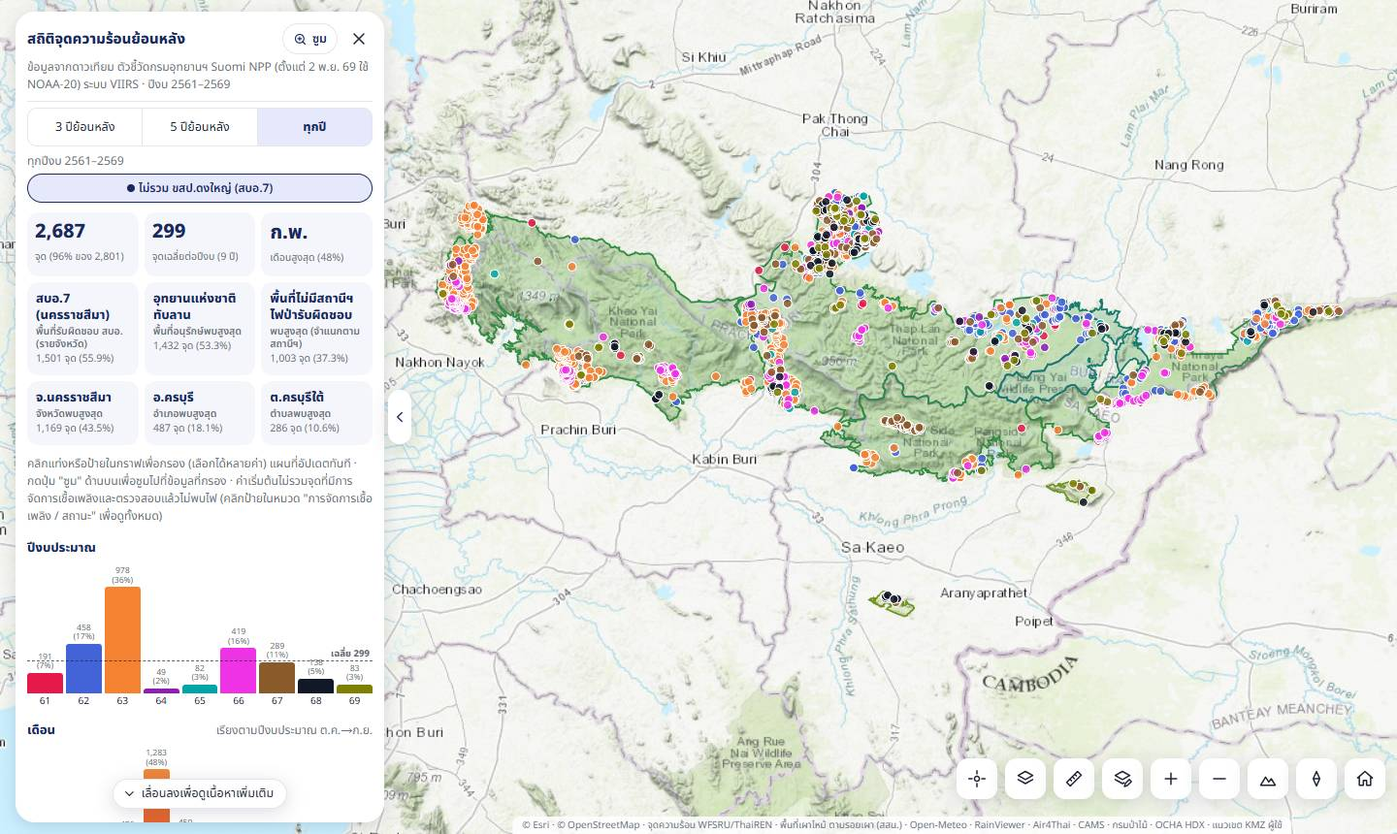
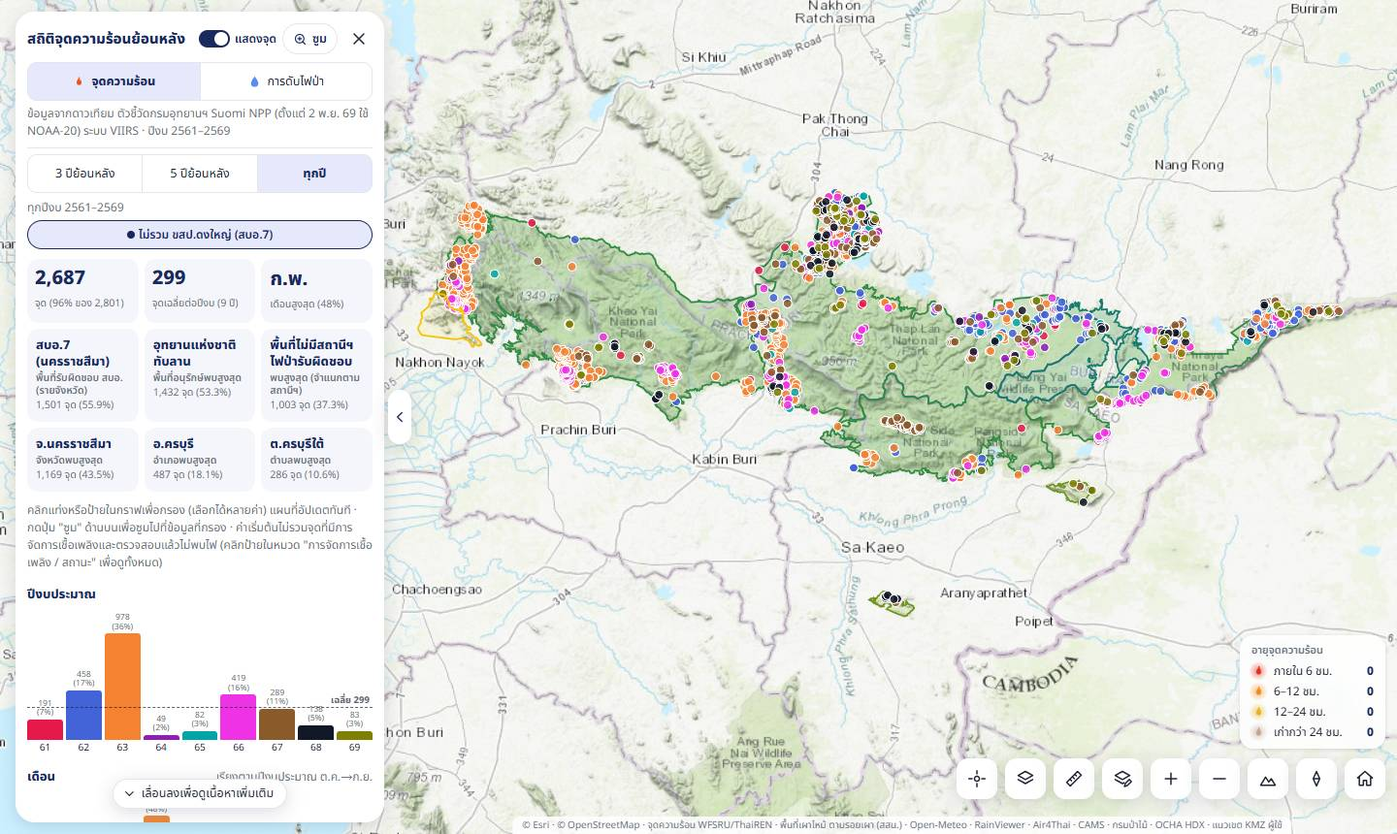
การ์ดสถิติ: สวิตช์ "แสดงจุด" เล็กหน้าปุ่มซูม ใช้ทั้งแท็บจุดความร้อน/การดับไฟป่า/พื้นที่เฝ้าระวังพิเศษ ค่าเริ่มต้นเปิด (แทนแถวสวิตช์เดิมในการ์ด จปร.)

diff --git a/index.html b/index.html
@@ -326,6 +326,7 @@ hr.l{border:0;border-top:1px solid var(--line);margin:10px 0}
 .kc .ic{width:30px;height:30px;border-radius:9px;display:grid;place-items:center;flex:none;background:var(--cb);color:var(--c)}.kc .ic svg{width:17px;height:17px}
 .kc>div{min-width:0}.kc span{display:block;font-size:10.5px;color:var(--mut);line-height:1.25}.kc b{display:block;font-size:21px;line-height:1.15;color:var(--navy);font-weight:800}.kc b.t{font-size:14px;line-height:1.25}.kc small{display:block;font-size:10.5px;color:var(--mut);line-height:1.25}
 .hh{flex-wrap:wrap;gap:6px 6px}.ht{flex:1;font-size:15px;font-weight:800;color:var(--navy)}.hh>.hsub{flex:0 0 100%;margin-top:-2px}
+.hsp{display:inline-flex;align-items:center;gap:5px;font-size:12px;font-weight:600;color:var(--navy);cursor:pointer;white-space:nowrap}.hsp .sw{width:32px;height:18px}.hsp .sw::after{width:14px;height:14px}.hsp .sw[aria-checked=true]::after{transform:translateX(14px)}
 .hp{min-height:32px;padding:0 10px;border:1px solid var(--line);background:var(--bg);border-radius:99px;font-size:12.5px;display:inline-flex;align-items:center;gap:5px;color:var(--navy);font-weight:600}.hp svg{width:15px;height:15px}
 .kp .nm{font-size:13px;line-height:1.3;font-weight:800;margin:0 0 2px}.kp .lb{font-weight:600;color:var(--mut);font-size:10.5px;line-height:1.25}.kp .six{display:flex;flex-direction:column}
 /* หน้ากระดาน "ความสำคัญ" (#kb) — ความรู้รายพื้นที่อนุรักษ์ + แผนที่ประกอบ */
@@ -511,7 +512,7 @@ hr.l{border:0;border-top:1px solid var(--line);margin:10px 0}
   <div class="pbt"><button id="p-tbl"><svg class="i" viewBox="0 0 24 24"><rect x="3" y="4" width="18" height="16" rx="2"/><path d="M3 10h18M9 10v10"/></svg>ตารางรายละเอียด</button><button id="p-csv"><svg class="i" viewBox="0 0 24 24"><path d="M12 4v11m0 0l-4-4m4 4l4-4M5 20h14"/></svg>ดาวน์โหลด CSV</button><button id="p-pdf"><svg class="i" viewBox="0 0 24 24"><path d="M7 8V3h10v5M7 17H4v-7h16v7h-3M7 14h10v7H7z"/></svg>รายงาน PDF</button></div>
  </div>
 <div class="card hc" id="hcard" hidden aria-label="สถิติจุดความร้อนย้อนหลัง">
-  <div class="hh"><b class="ht" id="h-ttl">สถิติจุดความร้อนย้อนหลัง</b><button class="hp" id="h-fit" aria-label="ซูมไปที่ข้อมูลที่กรอง" title="ซูมไปที่ข้อมูลที่กรอง"><svg class="i" viewBox="0 0 24 24"><circle cx="11" cy="11" r="7"/><path d="M20 20l-4-4M11 8v6M8 11h6"/></svg>ซูม</button><button class="hp" id="h-rs" hidden aria-label="รีเซ็ตตัวกรอง">รีเซ็ต</button><button class="cb ib" id="h-x" aria-label="ปิดการ์ดสถิติ"><svg class="i" viewBox="0 0 24 24"><path d="M6 6l12 12M18 6L6 18"/></svg></button><div class="seg htab" id="h-tab" role="group" aria-label="ชุดข้อมูลสถิติย้อนหลัง"><button data-v="hs"><svg class="i" viewBox="0 0 24 24"><path d="M12 2c1 4-4 6-4 11a4 4 0 008 0c0-2-1-3-1-5-1 1-1.5 2-2 2 1-3 0-6-1-8z" style="fill:#e8541c;stroke:none"/></svg>จุดความร้อน</button><button data-v="xt"><svg class="i" viewBox="0 0 24 24"><path d="M12 3s6 7 6 11a6 6 0 01-12 0c0-4 6-11 6-11z" style="fill:#5b8def;stroke:none"/></svg>การดับไฟป่า</button></div><div class="sm hsub"><span class="hs-only">ข้อมูลจากดาวเทียม ตัวชี้วัดกรมอุทยานฯ Suomi NPP (ตั้งแต่ 2 พ.ย. 69 ใช้ NOAA-20) ระบบ VIIRS · <span id="h-rng"></span></span><span class="xt-only">ข้อมูลการดับไฟป่าจากรายงานสถิติดับไฟรวม อส. · <span id="x-rng"></span></span><span class="wa-only">จุดความร้อนทุกดาวเทียม VIIRS · อยู่นอกแนวเขตกลุ่มป่า · <span id="w-rng"></span></span></div></div>
+  <div class="hh"><b class="ht" id="h-ttl">สถิติจุดความร้อนย้อนหลัง</b><label class="hsp" title="แสดง/ซ่อนจุดของการ์ดนี้บนแผนที่"><button class="sw" id="h-sp" role="switch" aria-label="แสดงจุดบนแผนที่"></button>แสดงจุด</label><button class="hp" id="h-fit" aria-label="ซูมไปที่ข้อมูลที่กรอง" title="ซูมไปที่ข้อมูลที่กรอง"><svg class="i" viewBox="0 0 24 24"><circle cx="11" cy="11" r="7"/><path d="M20 20l-4-4M11 8v6M8 11h6"/></svg>ซูม</button><button class="hp" id="h-rs" hidden aria-label="รีเซ็ตตัวกรอง">รีเซ็ต</button><button class="cb ib" id="h-x" aria-label="ปิดการ์ดสถิติ"><svg class="i" viewBox="0 0 24 24"><path d="M6 6l12 12M18 6L6 18"/></svg></button><div class="seg htab" id="h-tab" role="group" aria-label="ชุดข้อมูลสถิติย้อนหลัง"><button data-v="hs"><svg class="i" viewBox="0 0 24 24"><path d="M12 2c1 4-4 6-4 11a4 4 0 008 0c0-2-1-3-1-5-1 1-1.5 2-2 2 1-3 0-6-1-8z" style="fill:#e8541c;stroke:none"/></svg>จุดความร้อน</button><button data-v="xt"><svg class="i" viewBox="0 0 24 24"><path d="M12 3s6 7 6 11a6 6 0 01-12 0c0-4 6-11 6-11z" style="fill:#5b8def;stroke:none"/></svg>การดับไฟป่า</button></div><div class="sm hsub"><span class="hs-only">ข้อมูลจากดาวเทียม ตัวชี้วัดกรมอุทยานฯ Suomi NPP (ตั้งแต่ 2 พ.ย. 69 ใช้ NOAA-20) ระบบ VIIRS · <span id="h-rng"></span></span><span class="xt-only">ข้อมูลการดับไฟป่าจากรายงานสถิติดับไฟรวม อส. · <span id="x-rng"></span></span><span class="wa-only">จุดความร้อนทุกดาวเทียม VIIRS · อยู่นอกแนวเขตกลุ่มป่า · <span id="w-rng"></span></span></div></div>
   <div class="hs-only" id="hsb"><div class="seg" id="h-per" role="group" aria-label="ช่วงปีงบที่แสดง"><button data-v="3">3 ปีย้อนหลัง</button><button data-v="5">5 ปีย้อนหลัง</button><button data-v="0">ทุกปี</button></div><div class="sm" id="h-pern"></div>
   <div class="sats xdy" data-xdy></div>
   <div class="kp" id="h-kp"></div>
@@ -564,7 +565,6 @@ hr.l{border:0;border-top:1px solid var(--line);margin:10px 0}
   </div>
   <div class="wa-only" id="wab">
   <select id="w-sel" hidden aria-label="เลือกพื้นที่เฝ้าระวัง"></select>
-  <div class="dmr"><button class="sw" id="w-sp" role="switch" aria-label="แสดงสถิติจุดความร้อนย้อนหลังบนแผนที่"></button><span>แสดง<b>สถิติจุดความร้อน</b>ย้อนหลังบนแผนที่ (ตามตัวกรองด้านล่าง)</span></div>
   <div class="hq" style="margin-top:6px"><b>ติดตามรายวัน</b><span class="sm" id="w-upd"></span></div>
   <div class="kp w2" id="w-lv"></div>
   <div id="w-d30"></div>
@@ -934,7 +934,7 @@ const areaHtml=g=>{let s='';if(g.cons)s+=`<b>${esc(g.cons.properties.name)}</b><
  return s||'<span class="sm">อยู่นอกพื้นที่อนุรักษ์และพื้นที่รับผิดชอบไฟป่าตามไฟล์แนวเขต</span><br>'};
 
 /* ---------- สถานะ + จำค่าที่ผู้ใช้เลือก ---------- */
-let S={base:'natural',img:'google',d3:false,hot:true,prov:false,cons:true,resp:false,stn:false,wpt:false,rgr:false,fbs:false,sats:{SNPP:true,NOAA20:true,NOAA21:true},xdy:true,wch:true,wst:false,wsp:false,demo:false,water:true,road:true,wind:false,pm:false,dry:false,wx:false,rad:false,wyl:false,wyo:'wind',wyop:60,hist:false,xt:false,burn:false,fuel:false,ftype:false,amp:false,tam:false,hcl:false,hgp:false,har:false,hcp:'7',rep:false,rpm:2,hcd:1,hcg:2,hcr:200};
+let S={base:'natural',img:'google',d3:false,hot:true,prov:false,cons:true,resp:false,stn:false,wpt:false,rgr:false,fbs:false,sats:{SNPP:true,NOAA20:true,NOAA21:true},xdy:true,wch:true,wst:false,wsp:true,demo:false,water:true,road:true,wind:false,pm:false,dry:false,wx:false,rad:false,wyl:false,wyo:'wind',wyop:60,hist:false,xt:false,burn:false,fuel:false,ftype:false,amp:false,tam:false,hcl:false,hgp:false,har:false,hcp:'7',rep:false,rpm:2,hcd:1,hcg:2,hcr:200};
 try{Object.assign(S,JSON.parse(localStorage.getItem('fm-v1')||'{}'))}catch(e){}S.demo=false;S.wst=false;if(S.base==='road')S.base='detail';
 const toast=(m,fn,ms)=>{const t=$('#toast');t.textContent=m;t.classList.add('show');t.classList.toggle('act',!!fn);t.onclick=fn?()=>{t.classList.remove('show','act');fn()}:null;
  clearTimeout(toast.t);toast.t=setTimeout(()=>t.classList.remove('show','act'),ms||2200)}; // fn = แตะป้ายแล้วทำ (ป้ายค้างนานขึ้น)
@@ -1080,7 +1080,7 @@ function apply(){
  L3();L4();try{LX()}catch(e){}try{LW()}catch(e){}LB();LR();LF();LFT();LA();LP();try{LC()}catch(e){}sync();
 }
 function sync(){
- $$('.sw[data-k]').forEach(b=>b.setAttribute('aria-checked',!!S[b.dataset.k]));
+ $$('.sw[data-k]').forEach(b=>b.setAttribute('aria-checked',!!S[b.dataset.k]));try{if(HOPEN){if(HTAB==='hs')HSP.hs=!!S.hist;else if(HTAB==='xt')HSP.xt=!!S.xt}hspSync()}catch(e){}
  $$('#seg button').forEach(b=>b.classList.toggle('on',b.dataset.b===S.base));
  const im=$('#imgsrc'),k=imgOf();im.hidden=S.base!=='sat';$$('#imgsrc button').forEach(b=>{b.setAttribute('aria-pressed',b.dataset.i===k);b.title=IMG[b.dataset.i].src()});
  $('#seg [data-b="sat"]').dataset.src=IMG[k].src();$('#attr-b').textContent=S.base==='sat'?IMG[k].cr:S.base==='natural'?'© Esri':'© OpenFreeMap';itUI();imgDate();
@@ -2559,13 +2559,14 @@ function pbOpen(){$('#pbf').hidden=false;pbPos();hRender()}
 function pbClose(){pbExit();$('#pbf').hidden=true}
 addEventListener('resize',pbPos);
 /* --- เปิด/ปิดการ์ด --- */
-let HTAB='hs'; // แท็บการ์ดสถิติย้อนหลัง: hs = จุดความร้อน · xt = การดับไฟป่า (ผู้ใช้ขอ 5 พ.ย. 69)
+let HTAB='hs';const HSP={hs:true,xt:true}; // สวิตช์ "แสดงจุด" บนหัวการ์ด (ค่าเริ่มต้นเปิด) — wa ใช้ S.wsp
+const hspOn=()=>HTAB==='wa'?!!S.wsp:HTAB==='xt'?!!S.xt:!!S.hist,hspSync=()=>{const b=document.getElementById('h-sp');if(b)b.setAttribute('aria-checked',HOPEN&&hspOn())}; // แท็บการ์ดสถิติย้อนหลัง: hs = จุดความร้อน · xt = การดับไฟป่า (ผู้ใช้ขอ 5 พ.ย. 69)
 function hOpen(play,tab){if(play)tab='hs';HOPEN=true;$('#left').classList.add('hm');$('#pcard').hidden=true;$('#hcard').hidden=false;hTab(tab||HTAB);
- if(play)pbOpen()}
+ if(play){if(!S.hist){S.hist=HSP.hs=true;apply();hspSync()}pbOpen()}} // เล่นย้อนต้องเห็นจุด
 function hTab(t){HTAB=t;const x=t==='xt',w=t==='wa';$('#hcard').classList.toggle('xtm',x);$('#hcard').classList.toggle('wam',w);tx('h-ttl',x?'สถิติการดับไฟป่าย้อนหลัง':w?'พื้นที่เฝ้าระวังพิเศษ':'สถิติจุดความร้อนย้อนหลัง');$$('#h-tab button').forEach(b=>b.classList.toggle('on',b.dataset.v===t));$('#hcard').scrollTop=0;
- if(w){pbClose();S.hist=false;S.xt=false;S.wst=true;apply();wtRender();if(!hTab.wd){hTab.wd=1;wtFit()}}
- else if(x){pbClose();S.hist=false;S.wst=false;S.xt=true;apply();xtRender();if(!hTab.xd){hTab.xd=1;xtFit()}}
- else{S.xt=false;S.wst=false;S.hist=true;apply();if(!hOpen.done)hDef();hRender();if(!hOpen.done){hOpen.done=1;hFit()}}
+ if(w){pbClose();S.hist=false;S.xt=false;S.wst=true;apply();hspSync();wtRender();if(!hTab.wd){hTab.wd=1;wtFit()}}
+ else if(x){pbClose();S.hist=false;S.wst=false;S.xt=HSP.xt;apply();hspSync();xtRender();if(!hTab.xd){hTab.xd=1;xtFit()}}
+ else{S.xt=false;S.wst=false;S.hist=HSP.hs;apply();hspSync();if(!hOpen.done)hDef();hRender();if(!hOpen.done){hOpen.done=1;hFit()}}
  try{moreFit()}catch(e){}}
 function hClose(){HOPEN=false;pbClose();$('#left').classList.remove('hm');$('#hcard').hidden=true;$('#pcard').hidden=false;$('#bHide').setAttribute('aria-pressed',true);S.hist=false;S.xt=false;S.wst=false;apply()} // ปิดการ์ด = ซ่อนจุดความร้อนย้อนหลังด้วย
 
@@ -2592,6 +2593,7 @@ $('#h-per').onclick=e=>{const b=e.target.closest('[data-v]');if(!b)return;HF.fy.
 $$('#h-md button').forEach(b=>b.onclick=()=>{HM.mode=b.dataset.v;hRender()});$$('#h-co button').forEach(b=>b.onclick=()=>{HM.color=b.dataset.v;hRender()});
 $$('#pb-w button').forEach(b=>b.onclick=()=>{PB.w=+b.dataset.v;hRender()});$$('#pb-sp button').forEach(b=>b.onclick=()=>{PB.sp=+b.dataset.v;if(PB.tm){pbStop();pbPlay()}hRender()});
 $('#pb-p').onclick=pbPlay;$('#pb-x').onclick=pbClose;$('#pb-o').onclick=pbOpen;$('#pb-s').oninput=e=>{PB.i=+e.target.value;PB.on=true;pbStop();hMap(hfilt())};
+$('#h-sp').onclick=e=>{e.preventDefault();e.stopPropagation();const v=!hspOn();if(HTAB==='wa')S.wsp=v;else if(HTAB==='xt')S.xt=HSP.xt=v;else S.hist=HSP.hs=v;apply();hspSync()};
 $('#h-fit').onclick=()=>HTAB==='xt'?xtFit():HTAB==='wa'?wtFit():hFit();
 /* --- ตารางรายละเอียด · CSV · รายงาน PDF ของสถิติย้อนหลัง (ตามตัวกรองปัจจุบัน hfilt) --- */
 const HFN={fy:'ปีงบ',mo:'เดือน',sb:'สบอ.',ar:'พื้นที่อนุรักษ์',st:'สถานีฯ',pv:'จังหวัด',am:'อำเภอ',tm:'ตำบล',ld:'ประเภทพื้นที่',hg:'ช่วงเวลา',fu:'การจัดการเชื้อเพลิง'};
@@ -2912,7 +2914,6 @@ function wtPopup(r){if(!r)return;if(r.src===2&&r.h){MOVED=true;return openDetail
 $('#wab').addEventListener('click',e=>{const c=e.target.closest('[data-wi]');if(c){const r=WR[+c.dataset.wi];if(!r)return;MOVED=true;if(r.src===2&&r.h)return openDetail(r.h);map.flyTo({center:[r.lo,r.la],zoom:13,duration:dur(1200)});map.once('moveend',()=>wtPopup(r));return}
  const b=e.target.closest('[data-wk]');if(!b)return;const k=b.dataset.wk,v=Number(b.dataset.wv);WFL[k].has(v)?WFL[k].delete(v):WFL[k].add(v);wtRender()});
 $$('#w-md button').forEach(b=>b.onclick=()=>{WM.mode=b.dataset.v;wtRender()});$$('#w-co button').forEach(b=>b.onclick=()=>{WM.color=b.dataset.v;wtRender()});
-{const b=$('#w-sp'),u=()=>b.setAttribute('aria-checked',!!S.wsp);u();b.onclick=e=>{e.stopPropagation();S.wsp=!S.wsp;u();LW()}} /* สวิตช์สถิติจุดความร้อนบนแผนที่ (ไม่ใช้ data-k — #hcard จับ data-k เป็นตัวกรองสถิติ) */
 $('#w-sel').onchange=e=>{WSEL=e.target.value;wDef();wtRender();wtFit()};
 $('#wch-z').onclick=wchZoom;$('#wch-o').onclick=()=>hOpen(false,'wa');$('#p-wch').onclick=()=>hOpen(false,'wa');
 /* ตาราง · CSV · รายงาน PDF (ตามตัวกรอง WFL) */

diff --git a/manual/index.html b/manual/index.html
@@ -648,7 +648,7 @@ mark{background:#ffe58a;border-radius:3px}
  <li><b>ปุ่มไม่รวมดงใหญ่</b> — สถานะเดียวกับในการ์ดหลัก</li>
  <li><b>การ์ดตัวเลข (KPI)</b> — จำนวนจุด (และ % ของทั้งหมด), เฉลี่ยต่อปีงบ, เดือนที่พบมากสุด, สบอ. พื้นที่อนุรักษ์ สถานีฯ จังหวัด อำเภอ ตำบลที่พบมากสุด · <b>คลิกการ์ดเพื่อกรอง</b></li>
  <li><b>กราฟ</b> ปีงบประมาณ (เส้นประ = ค่าเฉลี่ย) · เดือน (เรียง ต.ค.→ก.ย.) · สบอ. · พื้นที่อนุรักษ์ · สถานีฯ · จังหวัด · อำเภอ/ตำบล 8 อันดับ · ประเภทพื้นที่ (ป่าคงสภาพ/พื้นที่ราษฎรทำกิน) · ช่วงเวลาที่ตรวจพบ (กลางคืน/กลางวัน) · การจัดการเชื้อเพลิง/สถานะ</li>
- <li><b>คลิกแท่งหรือป้ายในกราฟเพื่อกรอง</b> เลือกได้หลายค่า ทุกกราฟและแผนที่อัปเดตทันที · <span class="btnl">ซูม</span> ไปที่ข้อมูลที่กรอง · <span class="btnl">รีเซ็ต</span> คืนค่าเริ่มต้น</li>
+ <li><b>คลิกแท่งหรือป้ายในกราฟเพื่อกรอง</b> เลือกได้หลายค่า ทุกกราฟและแผนที่อัปเดตทันที · สวิตช์ <span class="btnl">แสดงจุด</span> หน้าปุ่มซูม = แสดง/ซ่อนจุดของการ์ดบนแผนที่ (ค่าเริ่มต้นเปิด จำแยกแท็บจุดความร้อนกับการดับไฟป่า ตรงกับสวิตช์ในแผงชั้นข้อมูล — ปิดแล้วกราฟและตัวเลขยังทำงาน) · <span class="btnl">ซูม</span> ไปที่ข้อมูลที่กรอง · <span class="btnl">รีเซ็ต</span> คืนค่าเริ่มต้น</li>
  <li><b>ค่าเริ่มต้นไม่รวม</b>จุดที่มีการจัดการเชื้อเพลิงและจุดที่ตรวจสอบแล้วไม่พบไฟ (เลือกเฉพาะ "ไม่มี") — คลิกป้าย "ไม่มี" ซ้ำเพื่อดูทั้งหมด</li>
  <li><b>แสดงบนแผนที่</b> — จุด / Cluster / ความหนาแน่น และสีตามปีงบ / ประเภทพื้นที่ / การจัดการเชื้อเพลิง</li>
  <li><b>ข้อสังเกตจากข้อมูลที่กรอง</b> — สรุปข้อความอัตโนมัติ เช่น ปีที่มากสุด/น้อยสุด เดือนที่พบมาก แนวโน้ม</li>
@@ -674,10 +674,10 @@ mark{background:#ffe58a;border-radius:3px}
 <div class="box note"><b>วิธีคิด:</b> วันที่ใช้ช่อง วัน/เดือน/ปี · พิกัด UTM ไม่มีโซนในต้นฉบับ — E มากกว่า 500,000 = โซน 47 นอกนั้นโซน 48 · พิกัดที่ตัวเลขขาด/เกิน 1 หลัก (12 ครั้ง) ลองตัด/แทรกตัวเลขทีละหลัก แก้ให้เฉพาะเมื่อผลตกในตำบลที่รายงาน (5 ครั้ง) ที่เหลือ 7 ครั้งนับในสถิติแต่ไม่แสดงบนแผนที่ · พื้นที่อนุรักษ์หาจากพิกัด สถานีฯ ใช้ช่อง "ดำเนินการโดย" สบอ. ตามจังหวัด · เวลาเข้าดับ/เสร็จสิ้นใช้เฉพาะเวลา ตัดค่าที่เข้าดับก่อนรับแจ้งหรือนานเกิน 12 ชม. (เสร็จหลังเที่ยงคืนนับข้ามวัน) · <b>พบจุดความร้อน</b> = มีจุด Suomi NPP ของกรมอุทยานฯ ห่างไม่เกิน 1 กม. ภายใน ±1 วันของวันรับแจ้ง (พบราว 1 ใน 4 ของครั้งที่มีพิกัด — ไฟเล็กหรือดับก่อนดาวเทียมผ่านมักไม่ถูกตรวจพบ)</div>
 </div></div>
 <h3 id="stats-wa">การ์ดพื้นที่เฝ้าระวังพิเศษ</h3>
-<p>เปิดจากปุ่มเมนูหลัก <span class="btnl"><svg class="i" viewBox="0 0 24 24"><path d="M12 3l8 3.5v5.5c0 4.5-3.5 7.5-8 9-4.5-1.5-8-4.5-8-9V6.5z" style="fill:#ffd000;stroke:#6b5200"/><circle cx="12" cy="11.5" r="2.6" style="fill:#fff;stroke:#6b5200"/></svg> พื้นที่เฝ้าระวังพิเศษ</span> (แถวที่ 3) — ใช้ช่องเดียวกับการ์ดสถิติแต่ไม่มีแถบแท็บ — ติดตามรายวันและวิเคราะห์จุดความร้อนย้อนหลังของ<b>โรงเรียนนายร้อยพระจุลจอมเกล้า</b> (พื้นที่นอกแนวเขตกลุ่มป่า) เปิดได้จากปุ่มเมนูหลัก ป้ายเหลืองในการ์ดจุดความร้อน หรือลิงก์ในแผงชั้นข้อมูล (กดปุ่มเมนูซ้ำ = ปิด)เปิดการ์ดนี้แล้วแผนที่ซูมไปที่พื้นที่ (จุดย้อนหลังแสดงเมื่อเปิดสวิตช์ในการ์ด)</p>
+<p>เปิดจากปุ่มเมนูหลัก <span class="btnl"><svg class="i" viewBox="0 0 24 24"><path d="M12 3l8 3.5v5.5c0 4.5-3.5 7.5-8 9-4.5-1.5-8-4.5-8-9V6.5z" style="fill:#ffd000;stroke:#6b5200"/><circle cx="12" cy="11.5" r="2.6" style="fill:#fff;stroke:#6b5200"/></svg> พื้นที่เฝ้าระวังพิเศษ</span> (แถวที่ 3) — ใช้ช่องเดียวกับการ์ดสถิติแต่ไม่มีแถบแท็บ — ติดตามรายวันและวิเคราะห์จุดความร้อนย้อนหลังของ<b>โรงเรียนนายร้อยพระจุลจอมเกล้า</b> (พื้นที่นอกแนวเขตกลุ่มป่า) เปิดได้จากปุ่มเมนูหลัก ป้ายเหลืองในการ์ดจุดความร้อน หรือลิงก์ในแผงชั้นข้อมูล (กดปุ่มเมนูซ้ำ = ปิด)เปิดการ์ดนี้แล้วแผนที่ซูมไปที่พื้นที่ (จุดย้อนหลังซ่อนได้ด้วยสวิตช์ "แสดงจุด" บนหัวการ์ด)</p>
 <figure><img src="img/stats_wa.jpg" width="1440" height="860" alt="การ์ดพื้นที่เฝ้าระวังพิเศษ" loading="lazy"><figcaption>การ์ดพื้นที่เฝ้าระวังพิเศษ: ติดตามรายวัน การ์ดตัวเลข และจุดย้อนหลังในแนวเขตพื้นที่</figcaption></figure>
 <ul>
- <li><b>สวิตช์ "แสดงสถิติจุดความร้อนย้อนหลังบนแผนที่"</b> บนสุดของการ์ด — <b>ค่าเริ่มต้นปิด</b> (แผนที่แสดงแค่แนวเขตและจุด 48 ชม.) เปิดแล้วจุดย้อนหลังตามตัวกรองขึ้นบนแผนที่ในรูปแบบที่เลือกใน "แสดงบนแผนที่"</li>
+ <li><b>สวิตช์ <span class="btnl">แสดงจุด</span></b> หน้าปุ่มซูมบนหัวการ์ด — ค่าเริ่มต้นเปิด: จุดย้อนหลังตามตัวกรองขึ้นบนแผนที่ในรูปแบบที่เลือกใน "แสดงบนแผนที่" · ปิด = แผนที่แสดงแค่แนวเขตและจุด 48 ชม.</li>
  <li><b>ติดตามรายวัน</b> — จุดใน 24 ชม. · 48 ชม. · 7 วัน · สะสมปีงบนี้ ▲▼% เทียบทั้งปีงบก่อน · แท่งจำนวนจุดรายวัน 30 วันล่าสุด · <b>จุดล่าสุด</b> 6 จุด (แตะ = ซูม/เปิดรายละเอียด; ป้าย "48 ชม." = จุดสด) · บรรทัดบนบอกวันที่ข้อมูลสะสมจาก API ล่าสุด</li>
  <li><b>วิเคราะห์ย้อนหลัง</b> รูปแบบเดียวกับแท็บจุดความร้อน: การ์ดตัวเลข (จำนวนจุด เฉลี่ยต่อปีงบที่จบแล้ว ปีงบและเดือนที่พบมาก ดาวเทียม ช่วงเวลา ประเภทพื้นที่ พื้นที่ อำเภอ ตำบลที่พบมาก — คลิกเพื่อกรอง) · กราฟปีงบ (เส้นประ = เฉลี่ย) · เดือน · ดาวเทียม · ช่วงเวลาที่ตรวจพบ · ประเภทพื้นที่ (ที่หลวงหวงห้าม (ทหาร) / ป่าชุมชน / อุทยานแห่งชาติ / พื้นที่อื่น) · ชื่อพื้นที่ · ในหรือนอกพื้นที่ป่า · อำเภอ · ตำบล · แหล่งข้อมูล</li>
  <li><b>แสดงบนแผนที่</b> — จุด / Cluster / ความหนาแน่น สีตามปีงบ / ดาวเทียม / ประเภทพื้นที่ (ขอบน้ำตาล) · ปุ่ม <span class="btnl">ซูม</span> / <span class="btnl">รีเซ็ต</span> ทำงานกับการ์ดนี้</li>

diff --git a/CLAUDE.md b/CLAUDE.md
@@ -16,7 +16,7 @@
   - `id="wdata"` สร้างโดย `node scripts/import_watch.js <แนวเขต.kmz> <จุด.kmz> [--fy 2561-2569] [--id jpr --name … --short …]` (ห้ามแก้มือ; สำเนา `data/watch.json`): `{areas:[{id,n,s,rai,src,fy:[2561,2569] (จากชื่อไฟล์),bb,c:MultiPolygon}], sat,tm("ต|อ|จ"),nm,ty, r:[[day,hhmm,la5,lo5,sat,tm,nm,ty,forest,area,ลำด]]}` · ไฟล์ต้นฉบับ**ทุกดาวเทียม** S/N20/N21/N ("N" ไม่ระบุดวง) ปีงบ 2561 2 / 2563 177 / 2566 198 (S 100 + N20 98) / 2569 13 · ปีงบ 2562 ไม่มีจุด · ทุกจุดอยู่ในแนวเขต · ช่วงปีงบจากชื่อไฟล์รับทั้ง "2561 to 2569" และ "61ถึง69"
   - `id="wadata"` สร้างโดย sync_hotspots (`watchAt` ใน `scripts/lib/area.js` + firms.js): `{v,upd,from,to,ids,sat,cf,tm, r:[[day,hhmm,la5,lo5,sat,cf,tm,area(,1=FIRMS)]]}` · ที่เก็บเดียวกับ adata (`r.wa`; adata กรอง `r.ar`) · `store.wdays` = วันที่ดึงพร้อมตัวกรองพื้นที่เฝ้าระวัง — ครั้งแรก/เพิ่มพื้นที่ใหม่ (ลบ wdays) ดึงย้อนหลังทั้งหมด ~10 นาที แต่**วันเก่ารับเฉพาะจุดพื้นที่เฝ้าระวัง และไม่เติม FIRMS** (ไม่ให้ adata ย้อนหลังเปลี่ยน — ตรวจแล้ว adata 482 เท่าเดิม) · ปีงบ 2569 API 17 จุด (ไฟล์ 13)
   - build_site → `_site/watch.json` {features 48 ชม. (`_w`), sum:{fy, areas[{fy (ทุกดวง), prv, pfull, m, pm, sat, tm, h24, h48, last, src}]}} · **live.json ไม่มีจุดพื้นที่เฝ้าระวัง** (Worker/การ์ดเดิมนับจาก live.json) · ปีงบ ≤ ปีสุดท้ายของไฟล์ = ไฟล์, หลังจากนั้น = API + 48 ชม.
-  - **แก้ตามผู้ใช้ 6 พ.ย. 69 รอบ 2:** การ์ดนี้เปิดจาก**ปุ่มเมนูหลัก `#bWch`** (แถว 3 มี 3 ปุ่ม `.b3` ไอคอนบน ข้อความล่าง: พื้นที่เฝ้าระวังพิเศษ | ย้อนดูการลามของไฟ | คู่มือ — `.btns` กริด 6 คอลัมน์ย่อย) ไม่ใช่แท็บในการ์ดสถิติแล้ว (โหมด wa ซ่อน `#h-tab`; bStat จากโหมด wa = สลับไปแท็บจุดความร้อน, กดปุ่มเดิมซ้ำ = ปิด) · **สวิตช์ `#w-sp` "แสดงสถิติจุดความร้อนย้อนหลังบนแผนที่"** บนสุดของการ์ด `S.wsp` ค่าเริ่มต้นปิด (ผู้ใช้ขอ 6 พ.ย. 69) → LW แสดงชั้น wt-*/wtc-* เมื่อ S.wst&&S.wsp · ห้ามใช้ data-k ในการ์ด (#hcard จับ data-k เป็นตัวกรองสถิติ HF → error) · ชื่อหมวดชั้นข้อมูล "พื้นที่เฝ้าระวังพิเศษ" · เส้นแนวเขตสีเหลือง #f5c400 กว้าง 1.8 เท่าเส้นพื้นที่อนุรักษ์ ไม่มีเส้นประ/ขอบเข้ม (ลบ wch-c) · `#w-ins` ใช้ CSS เดียวกับ #h-ins (เดิมตัวอักษรใหญ่) · **เมนู "ความสำคัญ" เปลี่ยนชื่อเป็น "ข้อมูลพื้นฐาน"** (หัวหน้า #kb-t "ข้อมูลพื้นฐานของผืนป่า"; การ์ดภายในยังชื่อ ความสำคัญของพื้นที่) — คู่มือแก้ตามแล้ว + ถ่ายภาพ overview/mobile/know/sw_wch/stats_wa ใหม่
+  - **แก้ตามผู้ใช้ 6 พ.ย. 69 รอบ 2:** การ์ดนี้เปิดจาก**ปุ่มเมนูหลัก `#bWch`** (แถว 3 มี 3 ปุ่ม `.b3` ไอคอนบน ข้อความล่าง: พื้นที่เฝ้าระวังพิเศษ | ย้อนดูการลามของไฟ | คู่มือ — `.btns` กริด 6 คอลัมน์ย่อย) ไม่ใช่แท็บในการ์ดสถิติแล้ว (โหมด wa ซ่อน `#h-tab`; bStat จากโหมด wa = สลับไปแท็บจุดความร้อน, กดปุ่มเดิมซ้ำ = ปิด) · **สวิตช์ `#h-sp` "แสดงจุด"** (`.hsp` เล็ก) หน้าปุ่มซูมบนหัวการ์ดสถิติ ใช้ร่วม 3 โหมด ค่าเริ่มต้นเปิด (ผู้ใช้ขอ 6 พ.ย. 69 — รอบแรกเป็นแถวในการ์ด จปร. ค่าเริ่มต้นปิด แล้วผู้ใช้ให้ย้าย+เปิด): hs → S.hist / xt → S.xt (จำใน `HSP` ให้ hTab ใช้ค่าที่เลือก, sync() อัปเดตเมื่อสลับจากแผงชั้นข้อมูล) / wa → `S.wsp` (LW แสดง wt-* เมื่อ S.wst&&S.wsp) · เล่นย้อน (hOpen(true)) บังคับเปิด S.hist · ห้ามใช้ data-k ในการ์ด (#hcard จับ data-k เป็นตัวกรองสถิติ HF → error) · ชื่อหมวดชั้นข้อมูล "พื้นที่เฝ้าระวังพิเศษ" · เส้นแนวเขตสีเหลือง #f5c400 กว้าง 1.8 เท่าเส้นพื้นที่อนุรักษ์ ไม่มีเส้นประ/ขอบเข้ม (ลบ wch-c) · `#w-ins` ใช้ CSS เดียวกับ #h-ins (เดิมตัวอักษรใหญ่) · **เมนู "ความสำคัญ" เปลี่ยนชื่อเป็น "ข้อมูลพื้นฐาน"** (หัวหน้า #kb-t "ข้อมูลพื้นฐานของผืนป่า"; การ์ดภายในยังชื่อ ความสำคัญของพื้นที่) — คู่มือแก้ตามแล้ว + ถ่ายภาพ overview/mobile/know/sw_wch/stats_wa ใหม่
   - หน้าเว็บ: หมวด "พื้นที่เฝ้าระวังพิเศษ" ในแผงชั้นข้อมูล สวิตช์ `S.wch` (**ค่าเริ่มต้นเปิด**) + `#wchbox` · ชั้น `wch-f/l` · จุด 48 ชม. `WLAST` (liveList.w / liveFile.w จาก watch.json) ชั้น `wlv-glow/icon` คลิก = openDetail (บรรทัด "พื้นที่เฝ้าระวังพิเศษ" ใน #d-pa) · นับในกล่องอายุจุด · ป้ายเหลือง `#p-wch` ในการ์ดจุดความร้อน · ป๊อปอัปแตะแผนที่ `wchHtml` · แท็บที่ 3 ของการ์ดสถิติ `HTAB='wa'` (`#hcard.wam`, `.wa-only`, `#wab`, `S.wst` ชั้น `wt-*`/`wtc-*`) โมดูลต่อจากสถิติการดับไฟป่า: `WWG`/`WAP`/`WAR` (ชื่อ WG ชนกับตารางลม), `wBuild`→`WR` (src 0 ไฟล์/1 API/2 48 ชม.), ตัวกรอง `WFL`, `wLive` ติดตามรายวัน (24/48 ชม./7 วัน/สะสมปีงบ + แท่ง 30 วัน + จุดล่าสุด), `wKpi`/`wInsights` (เทียบเฉพาะปีงบที่จบแล้ว + ปีนี้เทียบช่วงเดียวกัน), `openWTable`/`wCSV`/`buildWReport` · ลิงก์ตรง `?wa=jpr` (+`&pts=`, `hsWA` หาใน WLAST/WAP) · ตรวจ Chrome headless 1440/390 ไม่มี error
   - LINE: `watchCard()` ใน worker (1 ใบ/พื้นที่) → line_notify ส่งเป็นข้อความที่ 2 ใน push เดียวกัน (โควตาไม่เพิ่ม) + สรุปประจำวัน · `--watch` · คำสั่ง "เฝ้าระวัง"/"จปร" + "สรุป" แนบการ์ด (**ผู้ใช้ต้องวางโค้ด Worker ใหม่**) · Telegram: ข้อความแยก `watchMsg` + หัวข้อในสรุปประจำวัน · `--watch` · line-test/tg-test มีตัวเลือก watch · ทดสอบกับ LINE/Telegram API จำลองแล้ว (ยังไม่ส่งจริง)
 - **คู่มือการใช้งาน** `manual/index.html` (ผู้ใช้ขอ 4 พ.ย. 69: แนะนำทุกส่วนของหน้าเว็บ เมนู ฟังก์ชัน วิธีใช้ ที่มา อ้างอิง วิธีคิด) — หน้า HTML แยก (Noto Sans Thai, สารบัญติดซ้าย + ค้นหากรองหัวข้อ, มือถือสารบัญพับ, พิมพ์ได้) 23 หมวด: ส่วนประกอบหน้าจอ (ภาพมีหมายเลขกำกับ `.ann i` ตำแหน่งเป็น % จากภาพ 1440×860) · ปุ่มเมนู · การ์ด · แผนที่ · ปุ่มควบคุม · ชั้นข้อมูลทุกชั้น · แผงรายละเอียด/โมเดลไฟ · สถิติ · เล่นย้อน · ตาราง/CSV/PDF · Windy · ความสำคัญ · วัด · วาด · ลิงก์ตรง · LINE/Telegram · ข้อมูลและวิธีคิด (สมการจริงจากโค้ด: EMC/Rothermel/Anderson/Byram/ตาราง FUEL/CBI/VPD/AQI) · แหล่งข้อมูล+อ้างอิง · ข้อจำกัด · FAQ · คำศัพท์ · ผู้ดูแลระบบ · ภาพ `manual/img/*.jpg` 40 ภาพ (~4.5 MB): ภาพหลัก/การ์ด/มือถือเปิดจุดความร้อนตัวอย่าง (ผู้ใช้ขอ 4 พ.ย. 69) + **ภาพรายสวิตช์ทุกแถวในแผงชั้นข้อมูล** `sw_*.jpg` (กล่อง `.swd` คำอธิบาย/วิธีอ่าน/ใช้ทำอะไร) + แผนที่ฐาน 5 แบบ `base_*.jpg` · รายการภาพสร้างด้วย `node scripts/manual_shots_gen.js` (ภาพรายสวิตช์ + manual_shots_base.json = ภาพอื่น) แล้วถ่ายด้วย `node scripts/manual_shots.mjs manual/img scripts/manual_shots.json` (Chrome headless ~12 นาที, ต้องเปิด serve.js พอร์ต 8000; `clipSel` ตัดภาพตาม selector; ลบ boxes.json ที่ได้ทิ้ง — ใช้คำนวณตำแหน่งหมายเลขกำกับ %) · **ไอคอนในคู่มือ = SVG จริงจาก index.html** (ปุ่มควบคุมในกรอบ `.cb`, ปุ่มเมนูใน `.btnl`, หัวข้อสวิตช์) — ผู้ใช้ไม่เอาอักขระแทน (⌖ ◇ 📏) · ถ้าเปลี่ยนไอคอนในแอปต้องแก้ในคู่มือด้วย · ปุ่ม `#bMan` ในแผงซ้าย (เดิม data-soon) = `<a target=_blank href=manual/index.html>` · build_site คัดลอก `manual/` ไป _site · **สารบัญไฮไลต์หัวข้อจากตำแหน่งจริง** (`spy` ตอน scroll: หัวข้อสุดท้ายที่ขอบบน ≤80 px, ท้ายหน้าสุด = หัวข้อที่เห็น <60% จอ; กดลิงก์ = `pin` หัวข้อที่กดจนผู้ใช้ wheel/แตะ/กดคีย์/เมาส์ — เดิมใช้ IntersectionObserver ตอนเลื่อนขึ้นไฮไลต์หัวข้อก่อนหน้า 1 ข้อ และข้อ 25 ไม่เคยไฮไลต์ ผู้ใช้แจ้ง 5 พ.ย. 69; ตรวจ headless คลิกครบ 46 ลิงก์ถูกทุกครั้ง) แล้วเลื่อนกล่องสารบัญเอง (`tocShow` ตั้ง scrollTop) — ห้ามใช้ scrollIntoView** (ผู้ใช้แจ้ง 5 พ.ย. 69: กดสารบัญเลื่อนขึ้น/กลับบนสุดแล้วหยุดกลางทาง เพราะ scrollIntoView หยุดการเลื่อนแบบนุ่มของหน้า; ตรวจ headless แล้วทุกหัวข้อหยุดตรง 16 px) · **แก้ฟีเจอร์ในหน้าเว็บแล้วควรแก้คู่มือตาม** (ตัวเลข/สูตรในหมวดวิธีคิดคัดจากโค้ด ณ 4 พ.ย. 69)
